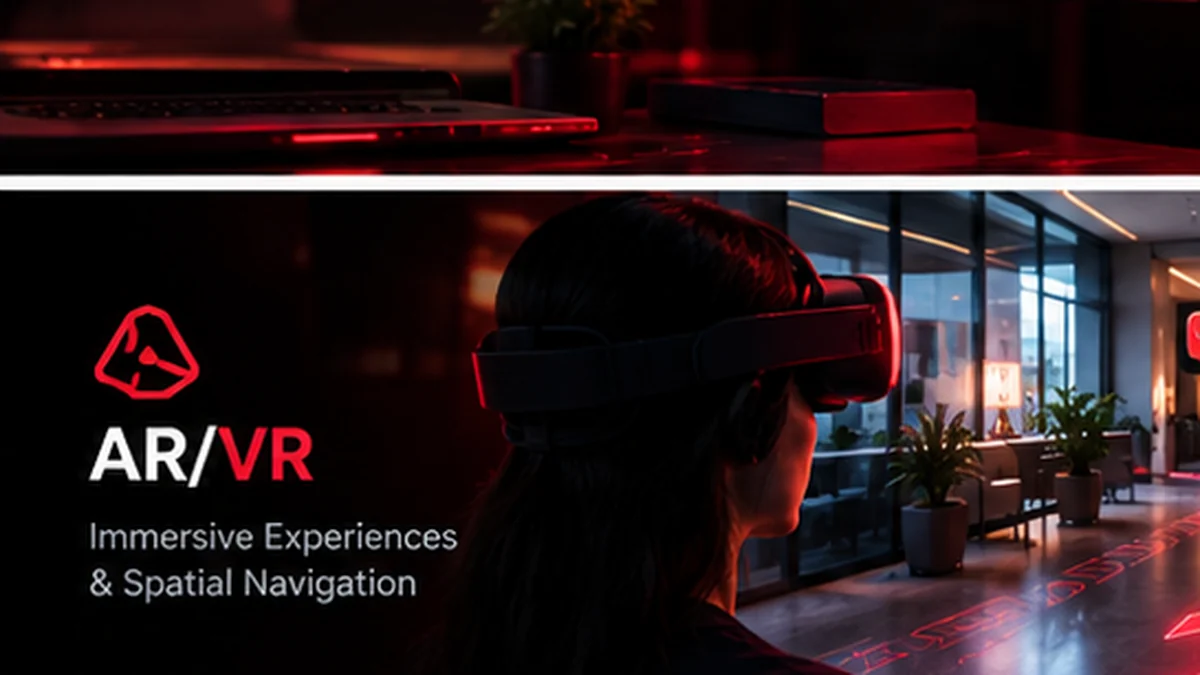
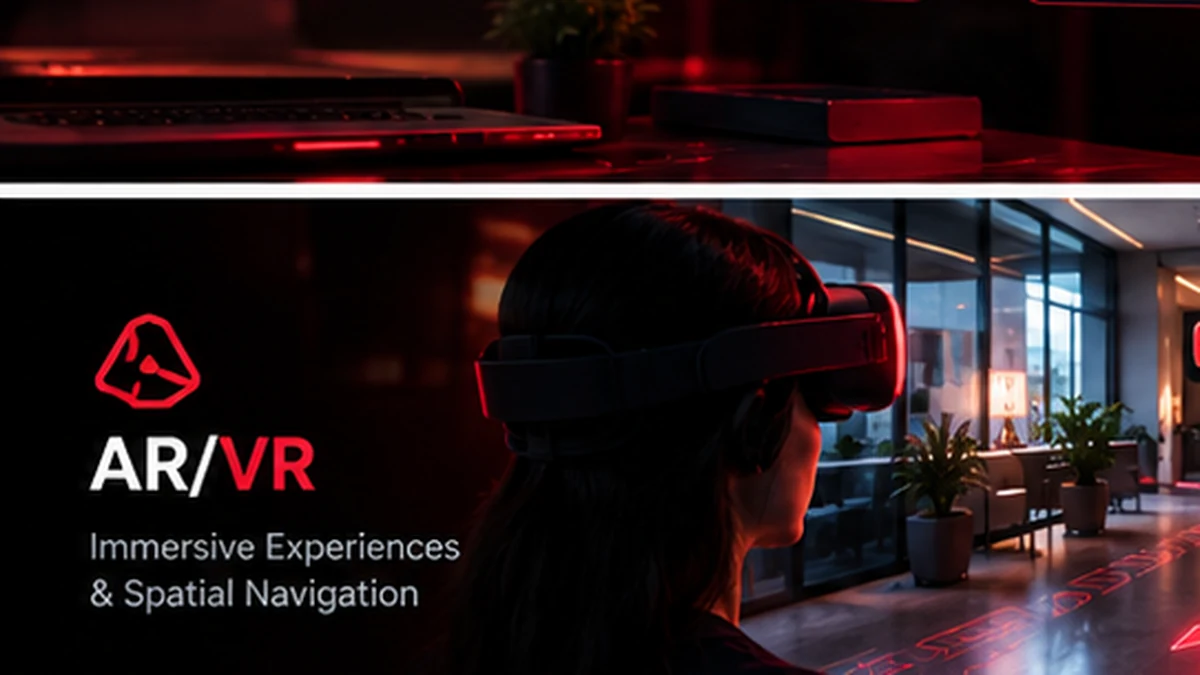
Updated Cards

diff --git a/data/projects.ts b/data/projects.ts
@@ -58,7 +58,7 @@ export const projects: Project[] = [
     role: 'Computer vision developer · Implemented OCR extraction and document-field validation',
     outcome: 'Combines image preprocessing, OCR text extraction, and field validation to reduce repetitive document review.',
     stack: ['Python', 'OpenCV', 'Tesseract OCR', 'Image processing', 'Validation'],
-    featured: false, githubUrl: 'https://github.com/abisekha02/OCR-Based-Document-Verification-System', visual: 'ocr',
+    featured: false, githubUrl: 'https://github.com/abisekha02/OCR-Based-Document-Verification-System', coverImage: '/projects/computer-vision.webp', visual: 'ocr',
   },
   {
     number: '06', name: 'AI-Based Helmet Detection', category: 'COMPUTER VISION · OBJECT DETECTION',
@@ -76,7 +76,7 @@ export const projects: Project[] = [
     role: 'Full-stack developer · Implemented attendance verification and employee/admin workflows',
     outcome: 'Combines GPS-based attendance checks, webcam capture, task tracking, and an admin dashboard in one workflow.',
     stack: ['React', 'TypeScript', 'Tailwind CSS', 'Supabase', 'PostgreSQL', 'Geolocation API'],
-    featured: false, liveUrl: 'https://attendancehubio.netlify.app/', githubUrl: 'https://github.com/abisekha02/smart-attendance-system', visual: 'flow',
+    featured: false, liveUrl: 'https://attendancehubio.netlify.app/', githubUrl: 'https://github.com/abisekha02/smart-attendance-system', coverImage: '/projects/careerflow.webp', visual: 'flow',
   },
   {
     number: '08', name: 'NishFin Connect', category: 'WEB APPLICATION · ISP SERVICES',
@@ -85,7 +85,7 @@ export const projects: Project[] = [
     role: 'Frontend / full-stack developer · Built service-plan browsing and customer support flows',
     outcome: 'Connects broadband plan browsing with service requests and support-ticket workflows in a responsive interface.',
     stack: ['React', 'TypeScript', 'Tailwind CSS', 'Vite', 'Supabase'],
-    featured: false, liveUrl: 'https://nishfinconnect.netlify.app/', githubUrl: 'https://github.com/abisekha02/nishfin-connect-website', visual: 'erp',
+    featured: false, liveUrl: 'https://nishfinconnect.netlify.app/', githubUrl: 'https://github.com/abisekha02/nishfin-connect-website', coverImage: '/projects/kadai-erp.webp', visual: 'erp',
   },
   {
     number: '09', name: 'Immersive AR / VR', category: 'UNITY · SPATIAL COMPUTING',

diff --git a/components/ProjectCard.tsx b/components/ProjectCard.tsx
@@ -16,7 +16,7 @@ export default function ProjectCard({ project, index }: { project: Project; inde
   return <Reveal delay={index * 0.06} className="group h-full">
     <article className="flex h-full flex-col overflow-hidden rounded-3xl border border-white/10 bg-white/[.025] transition duration-500 hover:-translate-y-1 hover:border-rose-400/30 hover:bg-white/[.04] motion-reduce:transform-none">
       <div className={`relative aspect-video w-full shrink-0 overflow-hidden bg-gradient-to-br ${visualStyles[project.visual]}`}>
-        {project.coverImage ? <img src={project.coverImage} alt={`${project.name} project cover`} loading="lazy" className="absolute inset-0 h-full w-full object-contain transition duration-700 group-hover:scale-[1.015]" /> : <div className="absolute inset-0 flex items-center justify-center"><div className="absolute inset-0 site-grid opacity-50" /><div className="relative flex h-28 w-28 items-center justify-center rounded-[2rem] border border-white/15 bg-black/30 shadow-2xl backdrop-blur-xl"><Icon size={42} strokeWidth={1.1} className="text-rose-200" /></div></div>}
+        {project.coverImage ? <img src={project.coverImage} alt={`${project.name} project cover`} loading="lazy" className="absolute inset-0 h-full w-full object-cover transition duration-700 group-hover:scale-[1.015]" /> : <div className="absolute inset-0 flex items-center justify-center"><div className="absolute inset-0 site-grid opacity-50" /><div className="relative flex h-28 w-28 items-center justify-center rounded-[2rem] border border-white/15 bg-black/30 shadow-2xl backdrop-blur-xl"><Icon size={42} strokeWidth={1.1} className="text-rose-200" /></div></div>}
         <div className="absolute inset-0 bg-gradient-to-t from-black/65 via-black/5 to-black/20" />
         <span className="absolute left-6 top-6 z-10 rounded-full border border-white/15 bg-black/35 px-3 py-1.5 text-[10px] tracking-[.2em] text-white/75 backdrop-blur">PROJECT / {project.number}</span>
         <span className="absolute bottom-5 right-5 z-10 rounded-full border border-white/10 bg-black/40 px-3 py-1.5 text-[10px] text-white/70 backdrop-blur">{project.liveUrl ? 'Live experience' : 'Project showcase'}</span>
